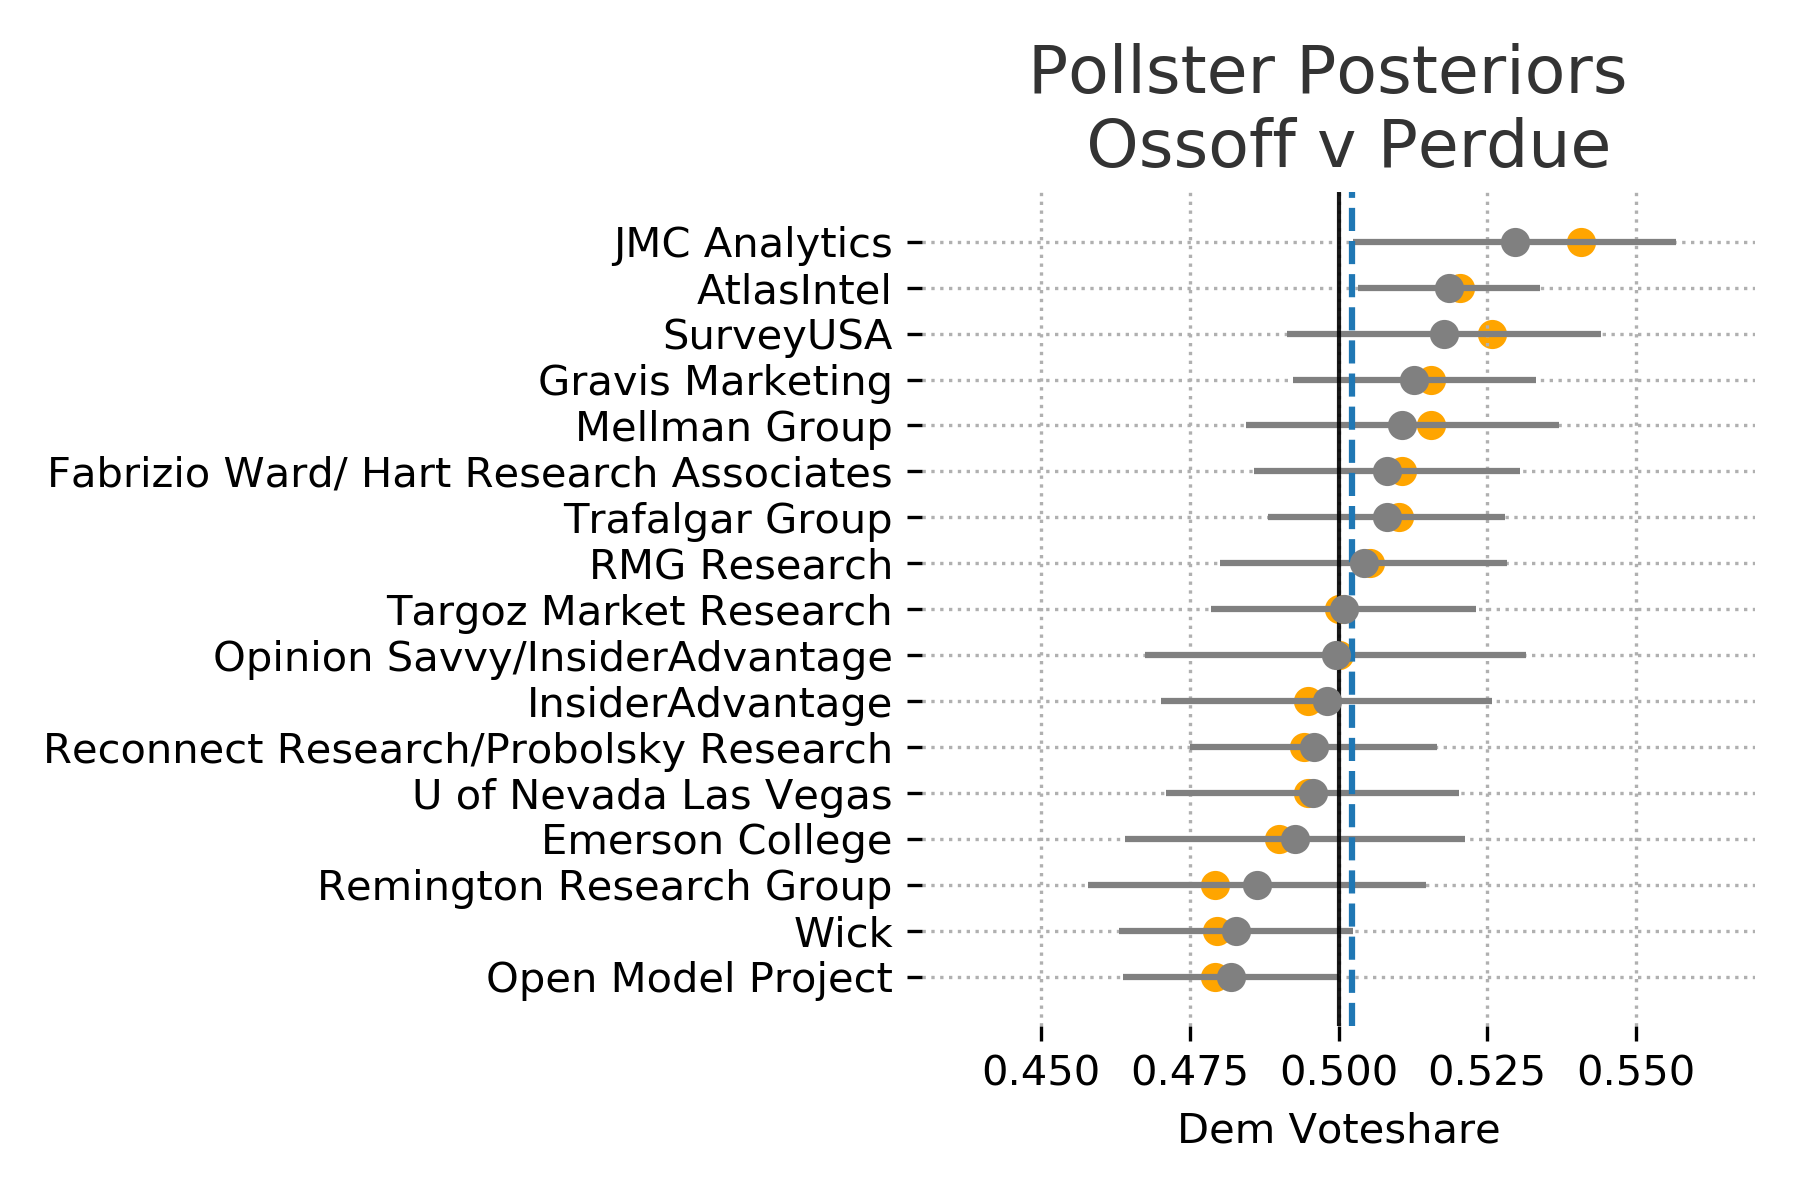
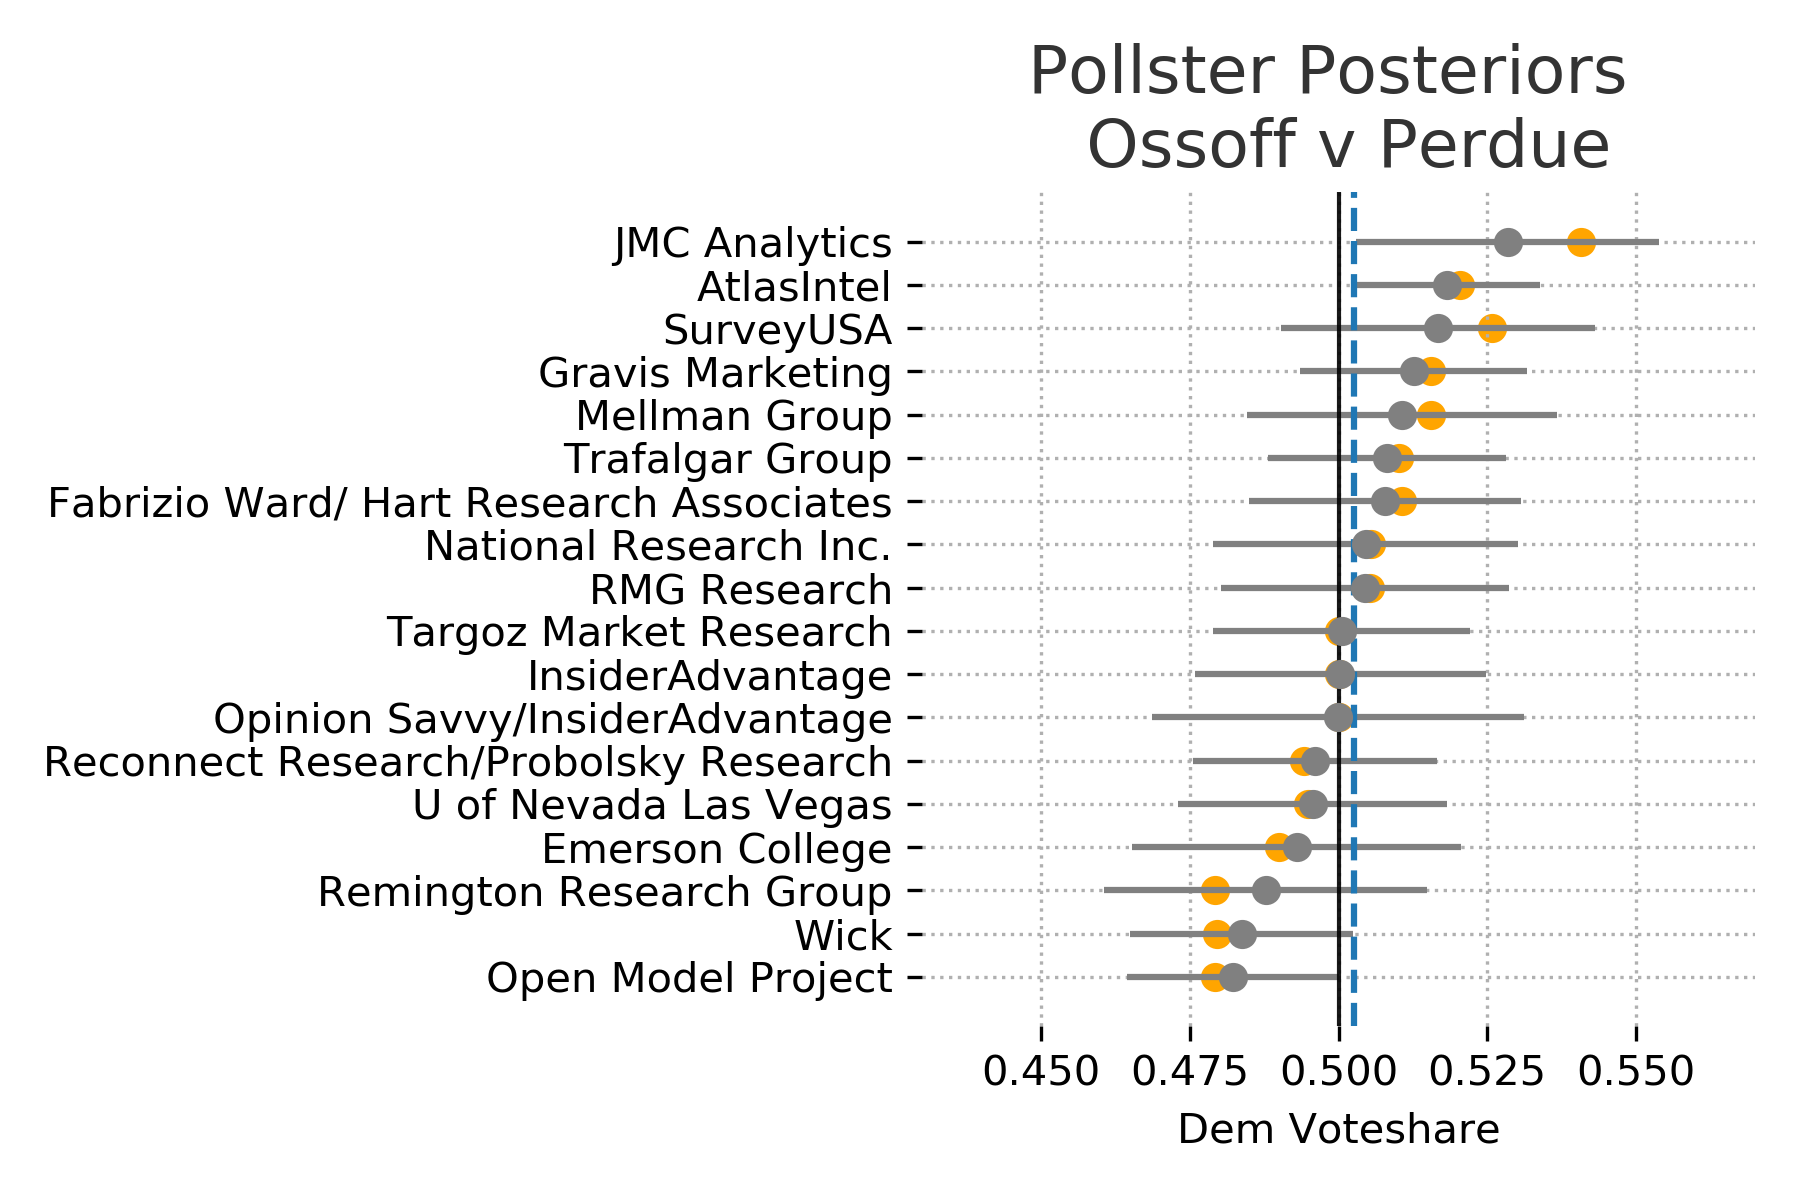
two more polls on the same day!

Changed region(s): [[0.0311, 0.2158, 0.5289, 0.8017], [0.5911, 0.2158, 0.9022, 0.8017]]

diff --git a/_posts/2020-12-18-election.md b/_posts/2020-12-18-election.md
@@ -4,14 +4,14 @@ title: Hierarchical Partial Pooling for Georgia Runoff Elections
 published: True
 ---
 
-Updated: Jan 4, 2020
+Updated: Jan 4, 2020 (twice)
 
-# Warnock: 70.8% - Loeffler: 29.2% 
+# Warnock: 70.4% - Loeffler: 29.6% 
 
 {: .center}
 ![WL Posterior](../images/ga_wl_posteriors.png)
 
-# Ossoff: 58.3% - Perdue: 41.7% 
+# Ossoff: 59.9% - Perdue: 40.1% 
 
 {: .center}
 ![WL Posterior](../images/ga_op_posteriors.png)
@@ -22,10 +22,10 @@ Updated: Jan 4, 2020
 
 | Candidate | Mean | 80% Interval |
 | ----------|------|--------------|
-| Ossoff    | 50.2 | 48.9 - 51.6  |
-| Perdue    | 49.8 | 48.4 - 51.1  |
-| Warnock   | 50.5 | 49.3 - 51.9  |
-| Loeffler  | 49.4 | 48.1 - 50.7  |
+| Ossoff    | 50.3 | 48.9 - 51.5  |
+| Perdue    | 49.7 | 48.5 - 51.1  |
+| Warnock   | 50.5 | 49.3 - 51.7  |
+| Loeffler  | 49.5 | 48.3 - 50.7  |
 
 ## Methods
 
